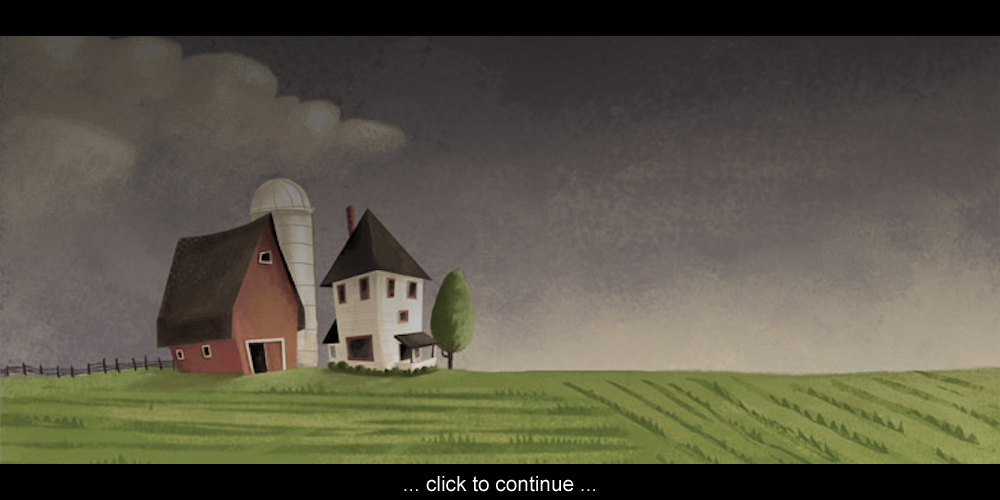
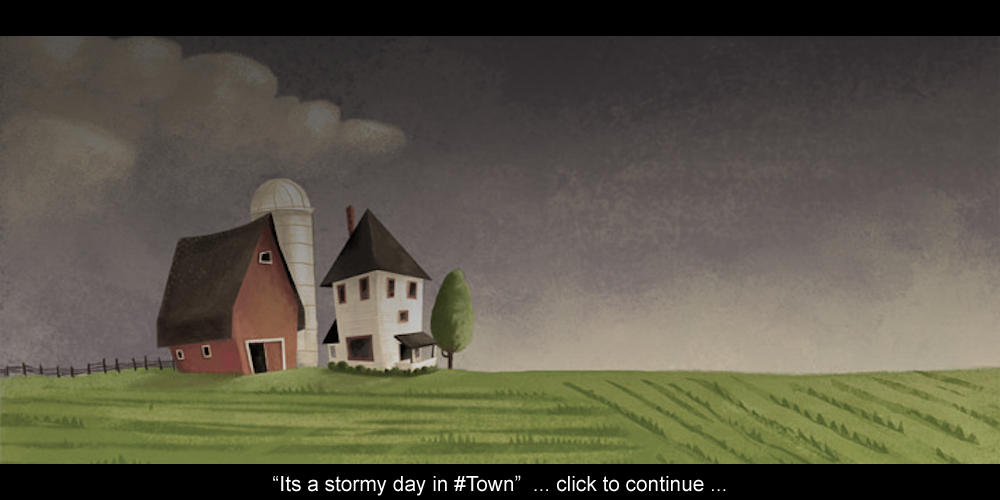
I made the thing better

Changed region(s): [[0.279, 0.93, 0.713, 0.99]]

diff --git a/src/FarmGame/StartDialog.java b/src/FarmGame/StartDialog.java
@@ -15,9 +15,9 @@ import javax.swing.JTextArea;
 
 
 
-public class StartWindow extends JDialog{
+public class StartDialog extends JDialog{
 
-	public StartWindow( ) {
+	public StartDialog( ) {
 		setTitle("Welcome to #Town!");
 		setSize(500, 190);
 		setLocation(250,200);
@@ -26,12 +26,9 @@ public class StartWindow extends JDialog{
 		JPanel main = new JPanel();
 		JPanel button = new JPanel();
 		
-//		JLabel message = new JLabel("Welcome to #Town! This is a great place, where nothing exciting ever happens. All your farm animals will be very happy here! They'll like.....", JLabel.CENTER);
-//		main.add(message);
-		
 		Font font = new Font("Comic Sans MS", Font.PLAIN, 20);
 		
-		JTextArea message = new JTextArea("Welcome to #Town! This is a great place, where nothing exciting ever happens. Except lots of tornadoes.");
+		JTextArea message = new JTextArea("Oh no! The tornado has swept away all your animals! Explore the island and find the animals on your list.");
 		message.setBackground(Color.CYAN);
 		message.setEditable(false);
 		message.setFont(font);
@@ -45,8 +42,6 @@ public class StartWindow extends JDialog{
 		nextWindow.addActionListener(new ActionListener() {
 			public void actionPerformed(ActionEvent e) {
 				CloseFrame();
-				SecondStart start = new SecondStart();
-				start.setVisible(true);
 				
 			}
 		});

diff --git a/src/FarmGame/MainGUI.java b/src/FarmGame/MainGUI.java
@@ -11,7 +11,7 @@ public class MainGUI extends JFrame {
 	GameEngine theGame;
 	public LocationType locationToDraw;
 	LevelGUI levelMap;
-	StartGUI opener;
+	Opener opener;
 	
 	public MainGUI( GameEngine theGame ) {
 
@@ -26,7 +26,7 @@ public class MainGUI extends JFrame {
 	}
 	
 	public void opener() {
-		opener = new StartGUI(this);
+		opener = new Opener(this);
 		add(opener);
 	}
 	
@@ -68,7 +68,7 @@ public class MainGUI extends JFrame {
 		this.repaint();
 		
 		//Start Dialog
-		StartWindow start = new StartWindow();
+		StartDialog start = new StartDialog();
 		start.setVisible(true);
 	}
 	

diff --git a/src/FarmGame/Opener.java b/src/FarmGame/Opener.java
@@ -16,14 +16,14 @@ import javax.swing.JFrame;
 import javax.swing.JLabel;
 import javax.swing.JPanel;
 
-public class StartGUI extends JPanel implements MouseListener {
+public class Opener extends JPanel implements MouseListener {
 
 	private static final String[] files = {"/OpenerImages/StormyFarm.png","/OpenerImages/RadioWarning.png","/OpenerImages/Tornado.png"};
 	private int currentImage = 0;
 	private BufferedImage backgroundImage;
 	private MainGUI maingui;
 
-	public StartGUI( MainGUI maingui ) {
+	public Opener( MainGUI maingui ) {
 
 		this.maingui = maingui;
 		
